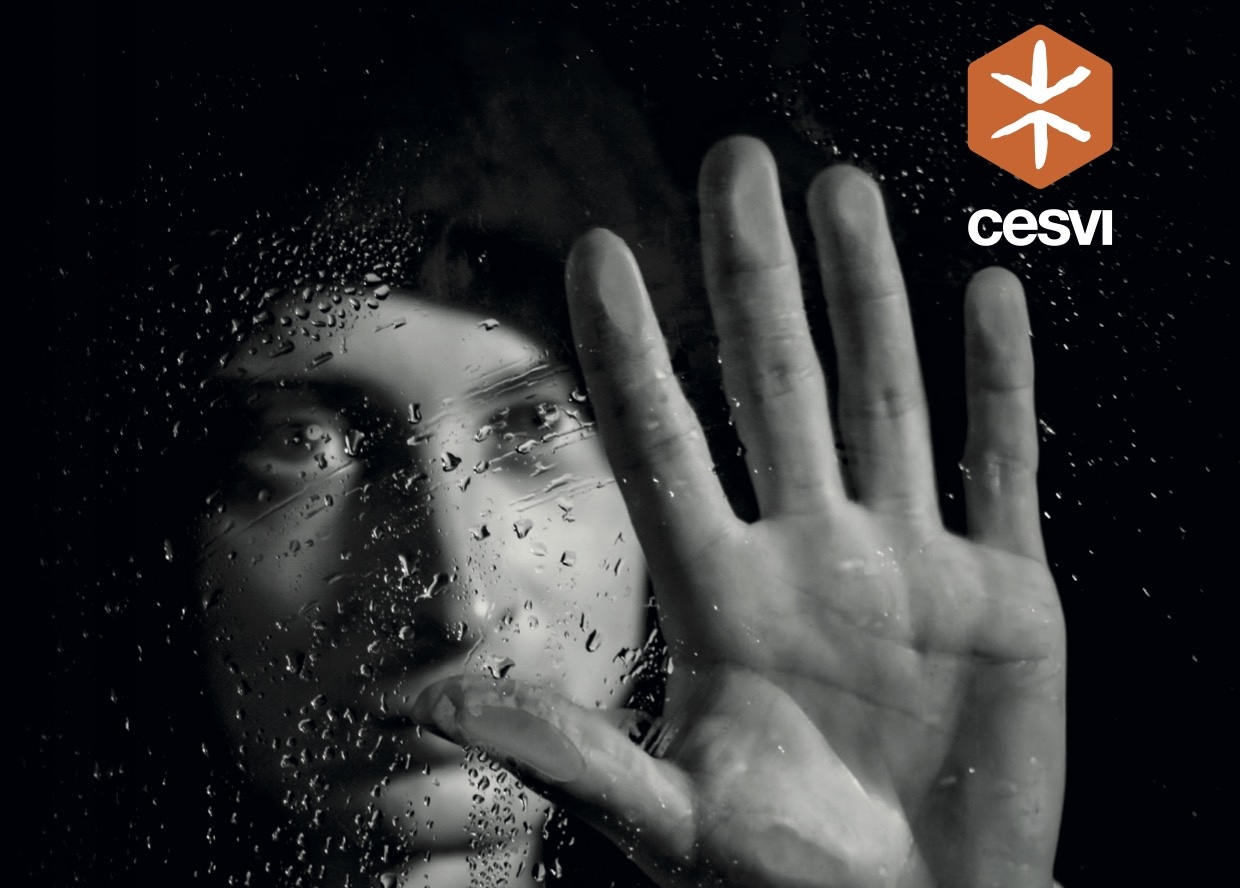
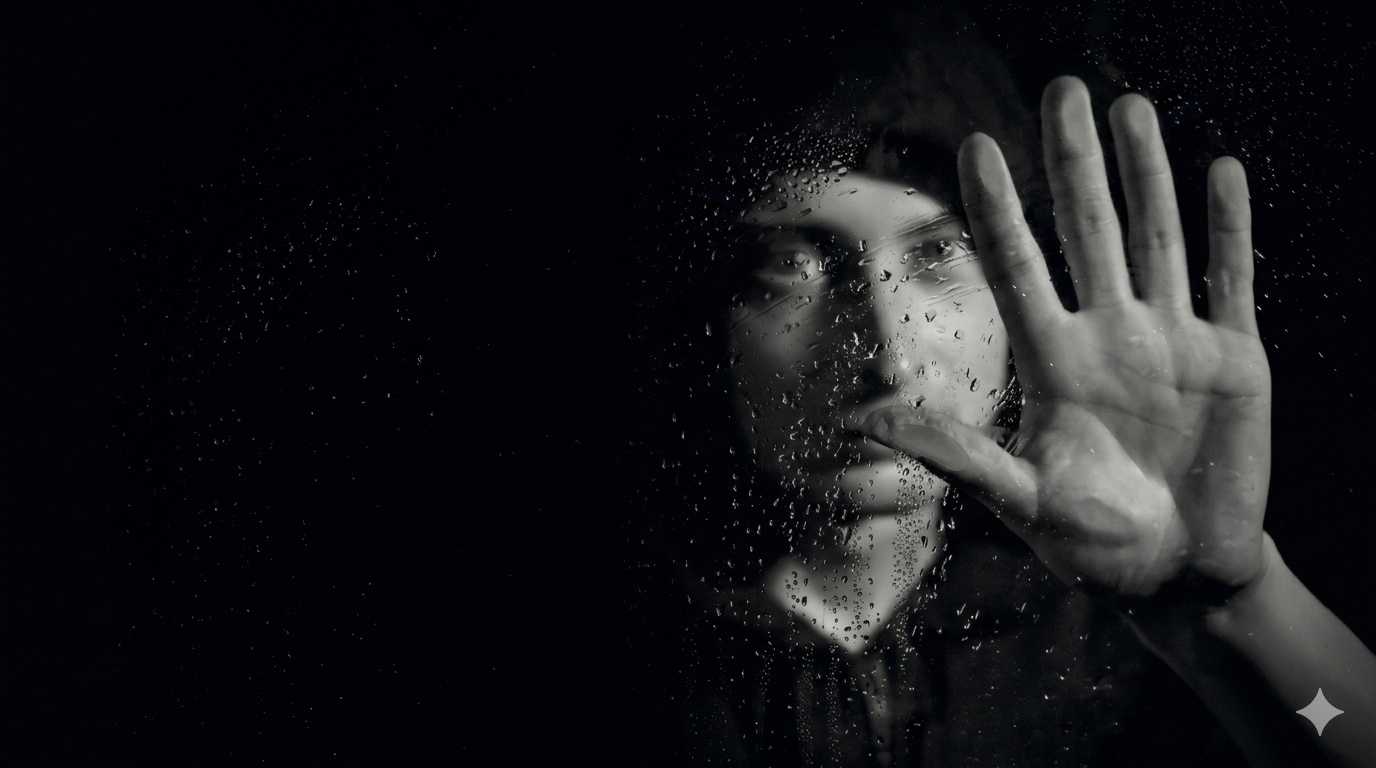
Fix hero image

diff --git a/app/assets/style.css b/app/assets/style.css
@@ -82,7 +82,9 @@ p, li {
 }
 .navbar-cesvi .nav-link.active {
     color: var(--cesvi-orange) !important;
-    font-weight: 600;
+    font-weight: 700;
+    border-bottom: 2px solid var(--cesvi-orange);
+    padding-bottom: 2px;
 }
 
 /* Buttons */

diff --git a/app/index.py b/app/index.py
@@ -18,6 +18,8 @@ from configuration import (
     TEMPLATE_CSS,
     FONT_URL,
     REPORTS_FILE,
+    UMAMI_URL,
+    UMAMI_WEBSITE_ID,
 )
 
 # ── Caricamento dati ──────────────────────────────────────────────────────────
@@ -33,12 +35,37 @@ reports = reports_df.to_dict(orient="records")
 
 # ── App Dash ──────────────────────────────────────────────────────────────────
 
+_umami_script = (
+    f'<script defer src="{UMAMI_URL}" data-website-id="{UMAMI_WEBSITE_ID}"></script>'
+    if UMAMI_WEBSITE_ID else ""
+)
+
 app = Dash(
     __name__,
     title=TITLE,
     external_stylesheets=[FONT_URL, TEMPLATE_CSS, DBC_CSS],
     suppress_callback_exceptions=True,
     use_pages=True,
+    index_string="""
+<!DOCTYPE html>
+<html>
+    <head>
+        {%metas%}
+        <title>{%title%}</title>
+        {%favicon%}
+        {%css%}
+        """ + _umami_script + """
+    </head>
+    <body>
+        {%app_entry%}
+        <footer>
+            {%config%}
+            {%scripts%}
+            {%renderer%}
+        </footer>
+    </body>
+</html>
+""",
 )
 
 server = app.server

diff --git a/app/configuration.py b/app/configuration.py
@@ -5,6 +5,10 @@ TITLE = "Indice regionale sul maltrattamento e la cura all'infanzia in Italia"
 BRAND_LINK = "https://www.cesvi.org/"
 CREDITS_LINK = "https://github.com/aripiz"
 
+# Analytics (Umami) — set UMAMI_WEBSITE_ID to enable; leave empty to disable
+UMAMI_URL        = "https://analytics.tuodominio.it/script.js"  # aggiorna con il tuo dominio
+UMAMI_WEBSITE_ID = ""  # incolla qui il Website ID da Umami
+
 # Theme (Bootswatch)
 TEMPLATE = "minty"
 TEMPLATE_CSS = f"https://cdn.jsdelivr.net/npm/bootswatch@5.3.8/dist/{TEMPLATE}/bootstrap.min.css"
